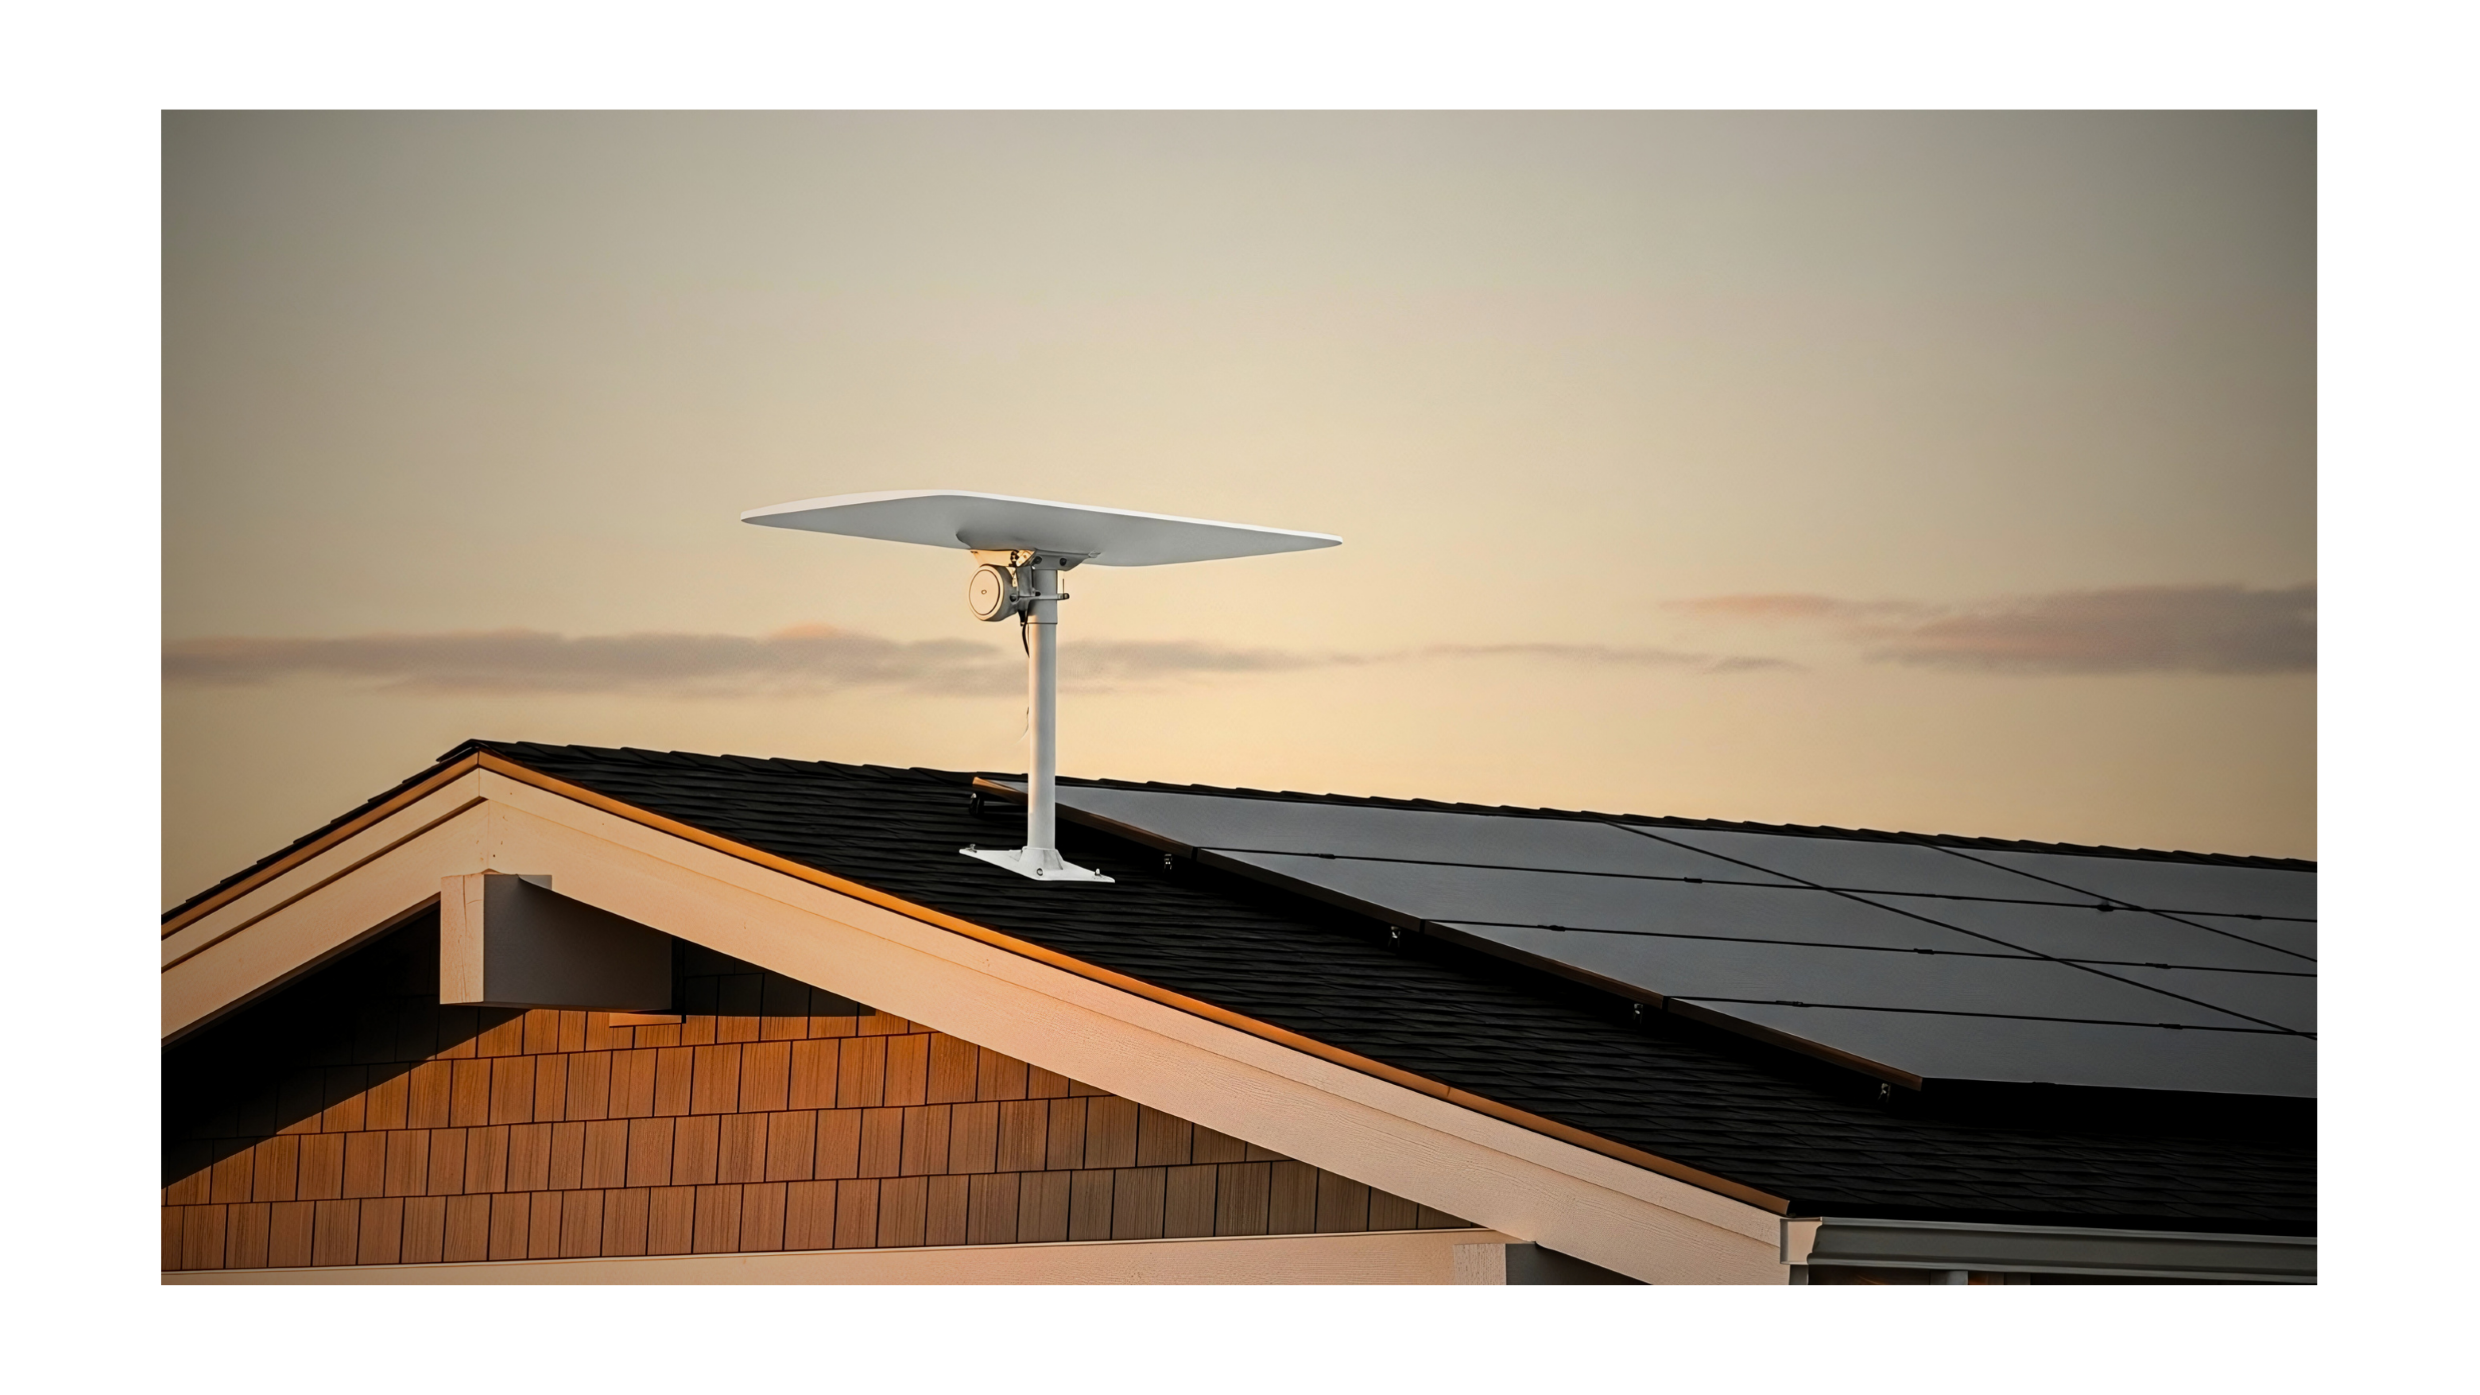
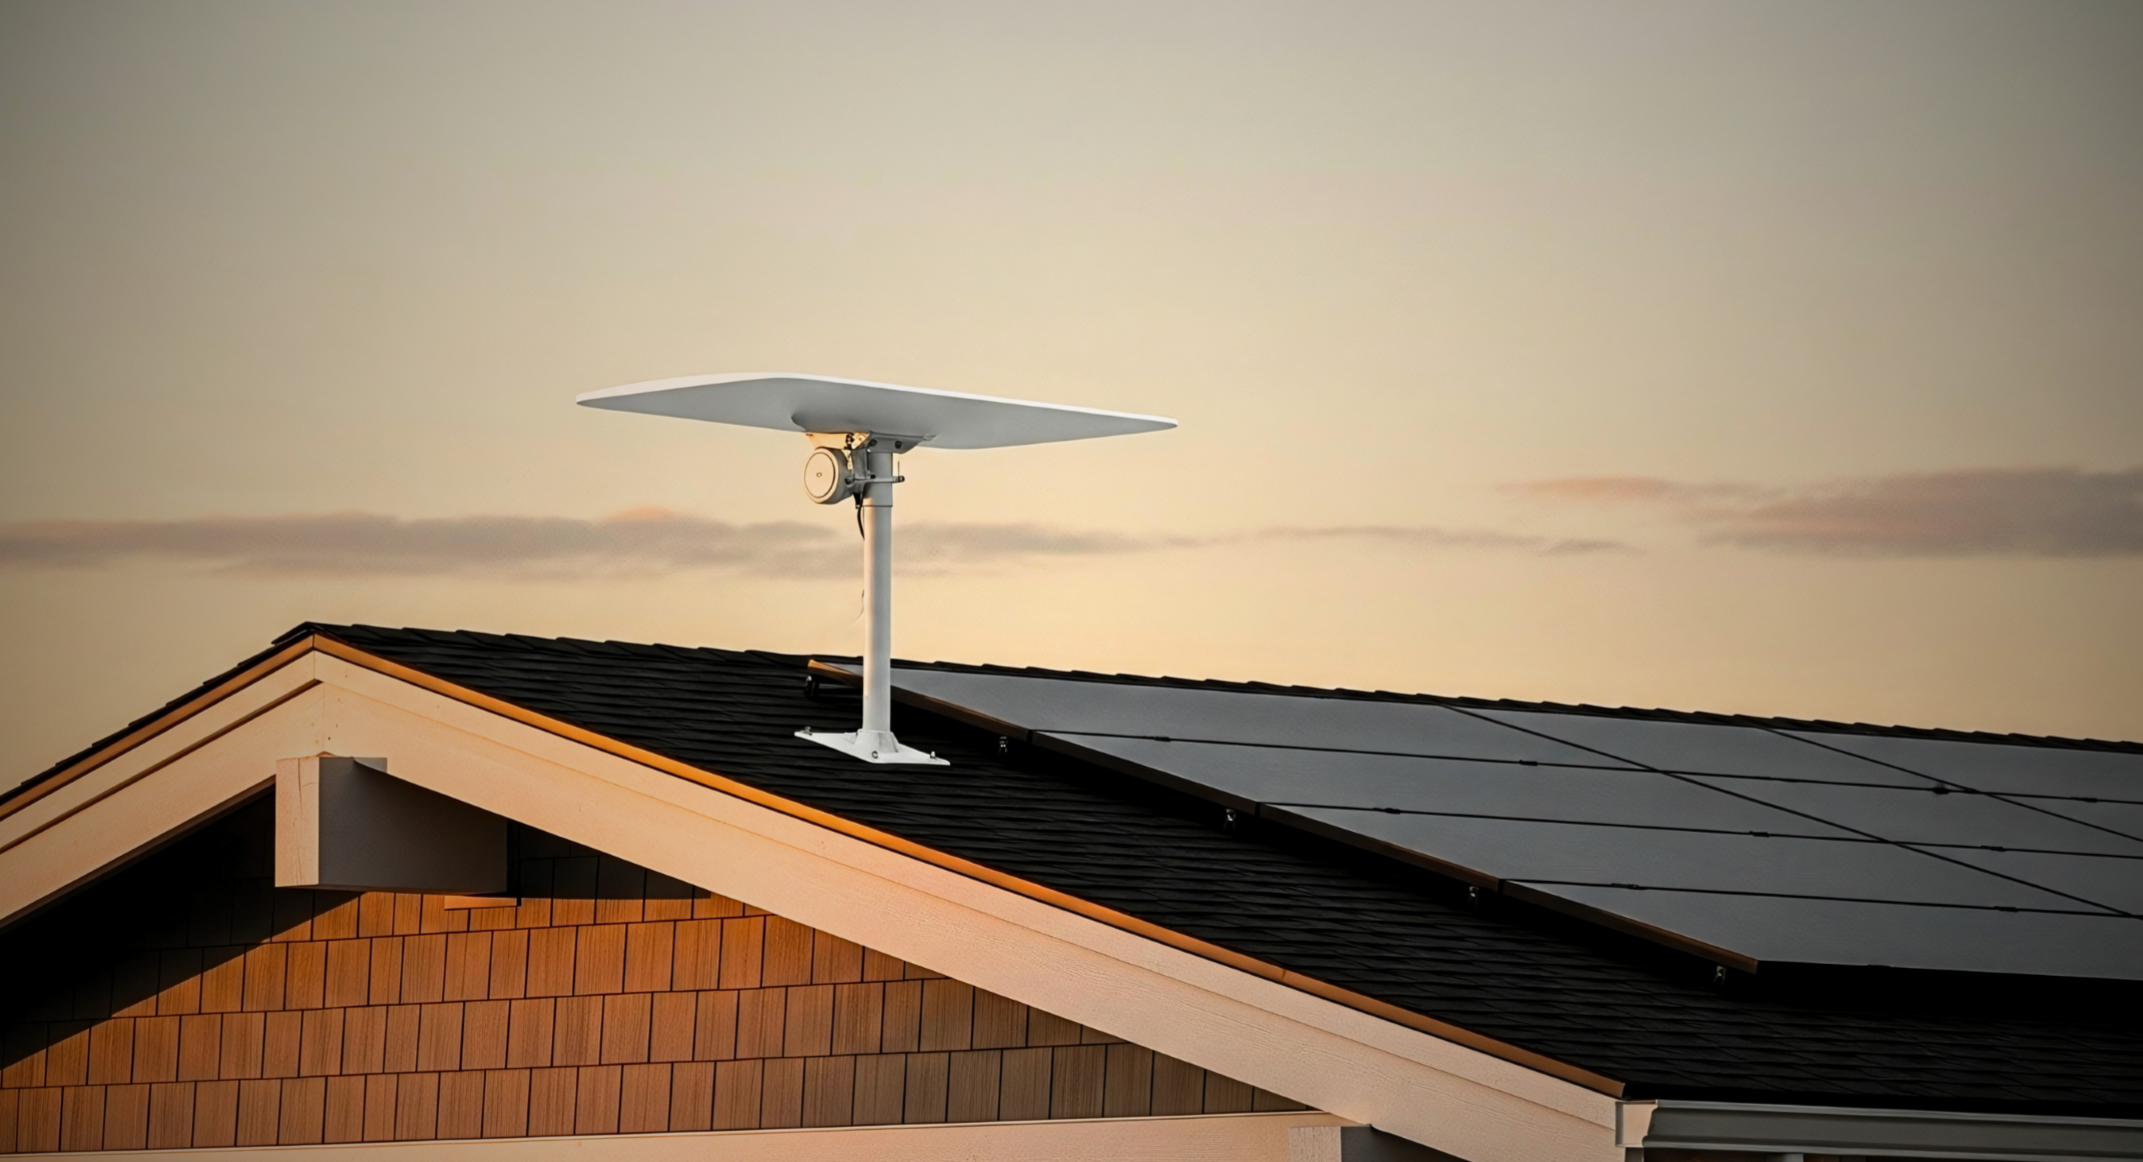
t

diff --git a/project/src/components/AvailabilityProcess.tsx b/project/src/components/AvailabilityProcess.tsx
@@ -298,7 +298,7 @@ const AvailabilityProcess = () => {
       id="availability-process"
       className="pt-32 pb-20 md:pt-40 md:pb-32 bg-black relative overflow-hidden flex items-center justify-center"
       style={{
-        backgroundImage: "url('/satellit2.PNG')",
+        backgroundImage: "url('/satellit1.png')",
         backgroundSize: 'cover',
         backgroundPosition: 'center',
         backgroundRepeat: 'no-repeat',
